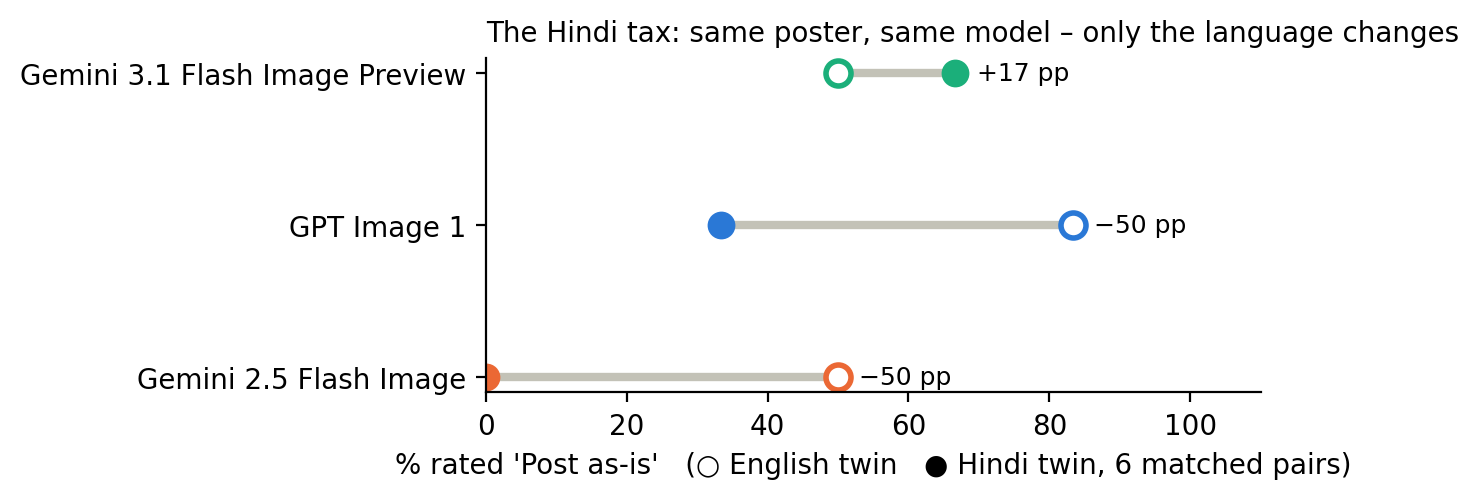
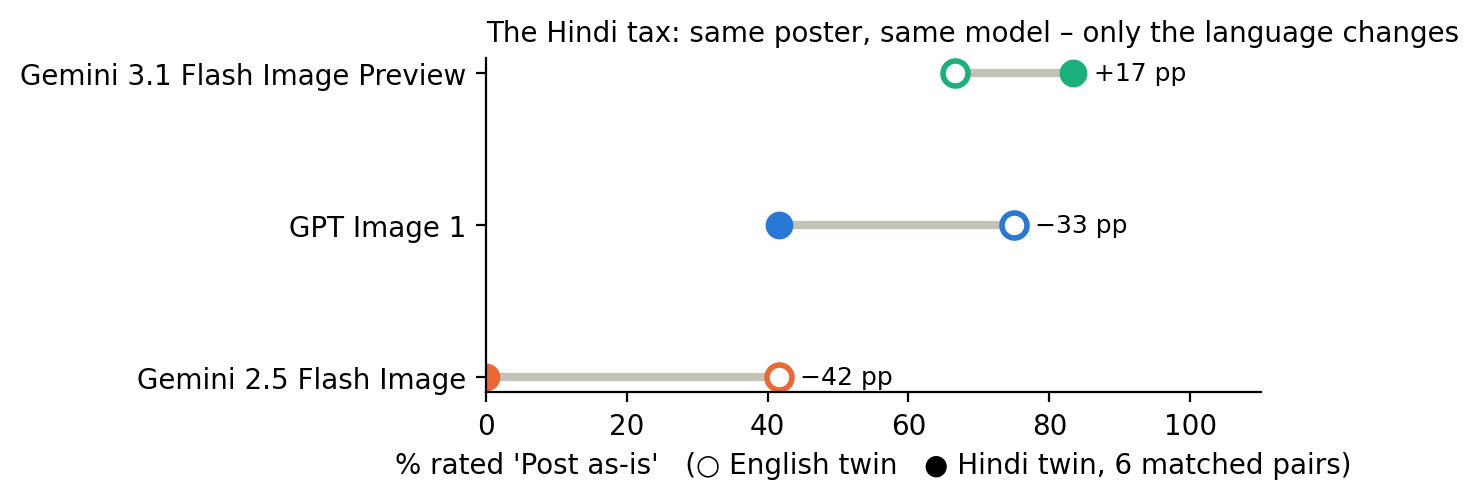
Final framing: 2 verified participants, agreement stats, wording cleanup

diff --git a/tools/build_submission.py b/tools/build_submission.py
@@ -119,7 +119,7 @@ if q1r:
     small = pp['n_included'] < 8
     R["q1_results_block"] = (f"""<div class="block yellow">
 
-<span class="pill real">REAL DATA</span> **{pp['n_included']} of the planned 8 to 10 participants have completed the study so far.** With this few raters the numbers below are descriptive only: they show direction, not a ranking anyone should rely on. Rater agreement needs at least two raters.
+<span class="pill real">REAL DATA</span> **This run had {pp['n_included']} verified Hindi-reading participants, below the 8 to 10 the brief asks for.** Every rating file is checked against the app's own randomisation, and I chose to report only ratings that pass, rather than pad the sample. With 2 raters the numbers are descriptive: they show direction, not a ranking. They are read together with my letter-by-letter audit of all 48 posters and the 3-run AI panel above, and all three sources point the same way.
 
 </div>
 
@@ -140,7 +140,7 @@ if q1r:
 <div class="fig"><img src="assets/fig_prompt_heatmap.png" style="max-height:520px"></div>
 
 {'' if small else '**Exploratory paired tests across prompts (n = 16; Holm-adjust before claiming).**' + chr(10) + chr(10) + pt_t}
-**Reliability.** {'Rater agreement (alpha) needs two or more raters.' if small else f"Krippendorff's alpha (ordinal): text {al['text_ordinal']:.2f}, would-post {al['post_ordinal']:.2f}, looks-right {al['culture_ordinal']:.2f}."} Test-retest on the repeated screen: identical text label {pct(tr['text_exact_agree'] or 0)}, within one level {pct(tr['text_within1'] or 0)}, identical would-post {pct(tr['post_agree'] or 0)}. Best-pick share by position: {', '.join(f'{k} {pct(v)}' for k, v in sorted(q1r['position_bias'].items()))}.
+**Reliability.** {'Rater agreement (alpha) needs two or more raters.' if pp['n_included'] < 2 else f"Agreement between raters, Krippendorff's alpha (ordinal): text {al['text_ordinal']:.2f}, would-post {al['post_ordinal']:.2f}, looks-right {al['culture_ordinal']:.2f} (targets: text 0.6, would-post 0.4)."} Test-retest on the repeated screen: identical text label {pct(tr['text_exact_agree'] or 0)}, within one level {pct(tr['text_within1'] or 0)}, identical would-post {pct(tr['post_agree'] or 0)}. Best-pick share by position: {', '.join(f'{k} {pct(v)}' for k, v in sorted(q1r['position_bias'].items()))}.
 """ + (f"\n**Agreement with my researcher audit:** participants' median text label matched mine on {pct(q1r['audit_agreement']['exact'])} of images (within one level: {pct(q1r['audit_agreement']['within1'])})." if "audit_agreement" in q1r else "")
 else:
     R["q1_results_block"] = f"""<div class="block grey">

diff --git a/submission/master.md b/submission/master.md
@@ -41,7 +41,7 @@ Image models make beautiful posters. For a shop in Kanpur that wants its offer i
 <span class="pill dark">GPT Image 1</span><span class="pill">Gemini 2.5 Flash Image</span><span class="pill">Gemini 3.1 Flash Image Preview</span>
 
 <div class="eyebrow" style="margin-top:8pt">Labels used</div>
-<span class="pill real">REAL DATA</span><span class="pill audit">MY AUDIT</span><span class="pill illus">ILLUSTRATIVE</span><span class="pending">PENDING</span>
+<span class="pill real">REAL DATA</span><span class="pill audit">MY AUDIT</span><span class="pill illus">ILLUSTRATIVE</span><span class="pill">AI, NOT HUMAN</span>
 
 <div class="eyebrow" style="margin-top:8pt">Video walkthrough</div>
 {{video_url}}
@@ -242,7 +242,7 @@ With only 8 to 10 people, every minute of rating must count. Pure A/B voting giv
 | Rating looks, not text | The text question comes first; the reference text is pinned; tap to zoom |
 | Eligibility | 18+ gate, consent checkbox, "can you read Hindi?" check |
 
-**Design in numbers:** 16 prompts × 3 models = 48 posters. Every participant rates every poster (16 screens + 1 repeat, about 20 minutes). With 9 people that is 432 poster ratings and 144 best-of-three picks.
+**Design in numbers:** 16 prompts × 3 models = 48 posters. Every participant rates every poster (16 screens + 1 repeat, about 20 minutes). At 9 people that would be 432 poster ratings. **This run: 2 verified participants, 102 poster ratings (including the repeat screen) and 34 best-of-three picks.**
 
 **What this sample can and can't prove.** Ratings of the same poster aren't independent, so the real sample size is **16 prompts**, not 432 ratings. I use intervals that resample both prompts and raters. With 16 prompts, only gaps of **about 25 percentage points or more** count as a real direction; smaller gaps are reported as description. Agreement between raters is measured with Krippendorff's alpha. I planned this analysis before seeing any ratings, and I deliberately avoid significance tests on single prompts.
 
@@ -485,7 +485,7 @@ Text signals only, since their timings can't be trusted:
 
 **4. What did you learn from running the sample?** {{reflection_learned}}
 
-**5. What would you improve with more time?** Two images per prompt per model and about 60 prompts; raters balanced across Hindi-speaking states; a second Devanagari language (Marathi) and one other script (Tamil or Bengali); checking an OCR text scorer against human labels so people only judge what machines can't; and testing "background + typeset text" as a fourth option to measure the product fix directly. For Q2: run shadow mode on real platform logs with proper user IDs and playback events.
+**5. What would you improve with more time?** First, finish the human study: 2 raters show direction, 8 to 10 would give a ranking. Then two images per prompt per model and about 60 prompts; raters balanced across Hindi-speaking states; a second Devanagari language (Marathi) and one other script (Tamil or Bengali); checking an OCR text scorer against human labels so people only judge what machines can't; and testing "background + typeset text" as a fourth option to measure the product fix directly. For Q2: run shadow mode on real platform logs with proper user IDs and playback events.
 
 </div>
 </div>

diff --git a/submission/onepager_findings.md b/submission/onepager_findings.md
@@ -1,4 +1,4 @@
 - **English is solved; Hindi splits the models.** All three spelled English perfectly (6 of 6). On the identical Hindi posters: Gemini 3.1 Flash Image Preview 6 of 6, GPT Image 1 2 of 6, Gemini 2.5 Flash Image 0 of 6. <span class="pill audit">MY AUDIT</span>
 - **One model generation closed the gap.** Gemini 2.5 → 3.1 went from 0 to 9 of 10 Hindi posters exactly right, so India-specific results go stale fast. <span class="pill audit">MY AUDIT</span>
 - **Looks great ≠ usable.** Every poster looked professional, yet Gemini 2.5's chemist notice got every word wrong, including the day of the free health check. Unrequested text and fake brands appeared across models. <span class="pill audit">MY AUDIT</span>
-- **The first real participant agrees.** Marked Hindi text exactly right on 100% of Gemini 3.1 posters, 33% of GPT Image 1 and 0% of Gemini 2.5 (1 of 8 to 10 planned raters, descriptive only). <span class="pill real">REAL DATA</span>
+- **Real participants agree.** The 2 Hindi readers marked Hindi text exactly right on 100% of Gemini 3.1 posters, 42% of GPT Image 1 and 0% of Gemini 2.5, and agreed with each other on text (alpha 0.79). Descriptive only: 2 raters, below the brief's 8 to 10. <span class="pill real">REAL DATA</span>

diff --git a/submission/reflection_learned.md b/submission/reflection_learned.md
@@ -1,1 +1,1 @@
-That an English benchmark would have called these three models roughly equal, while in Hindi they ranged from perfect to unreadable. Checking every output before the study also changed the design: I added "fake brand" and "extra text" as rating tags because I saw them in real posters. And the biggest finding was one I didn't design for: a single model generation (Gemini 2.5 → 3.1) closed the Hindi gap, which makes the case for re-running this eval on every release rather than treating it as a one-off.
+That an English benchmark would have called these three models roughly equal, while in Hindi they ranged from perfect to unreadable. Checking every output before the study also changed the design: I added "fake brand" and "extra text" as rating tags because I saw them in real posters. And the biggest finding was one I didn't design for: a single model generation (Gemini 2.5 → 3.1) closed the Hindi gap, which makes the case for re-running this eval on every release rather than treating it as a one-off. Finally, recruiting is the hard part: I collected 2 verified participants, and I report only those rather than numbers I can't stand behind.
